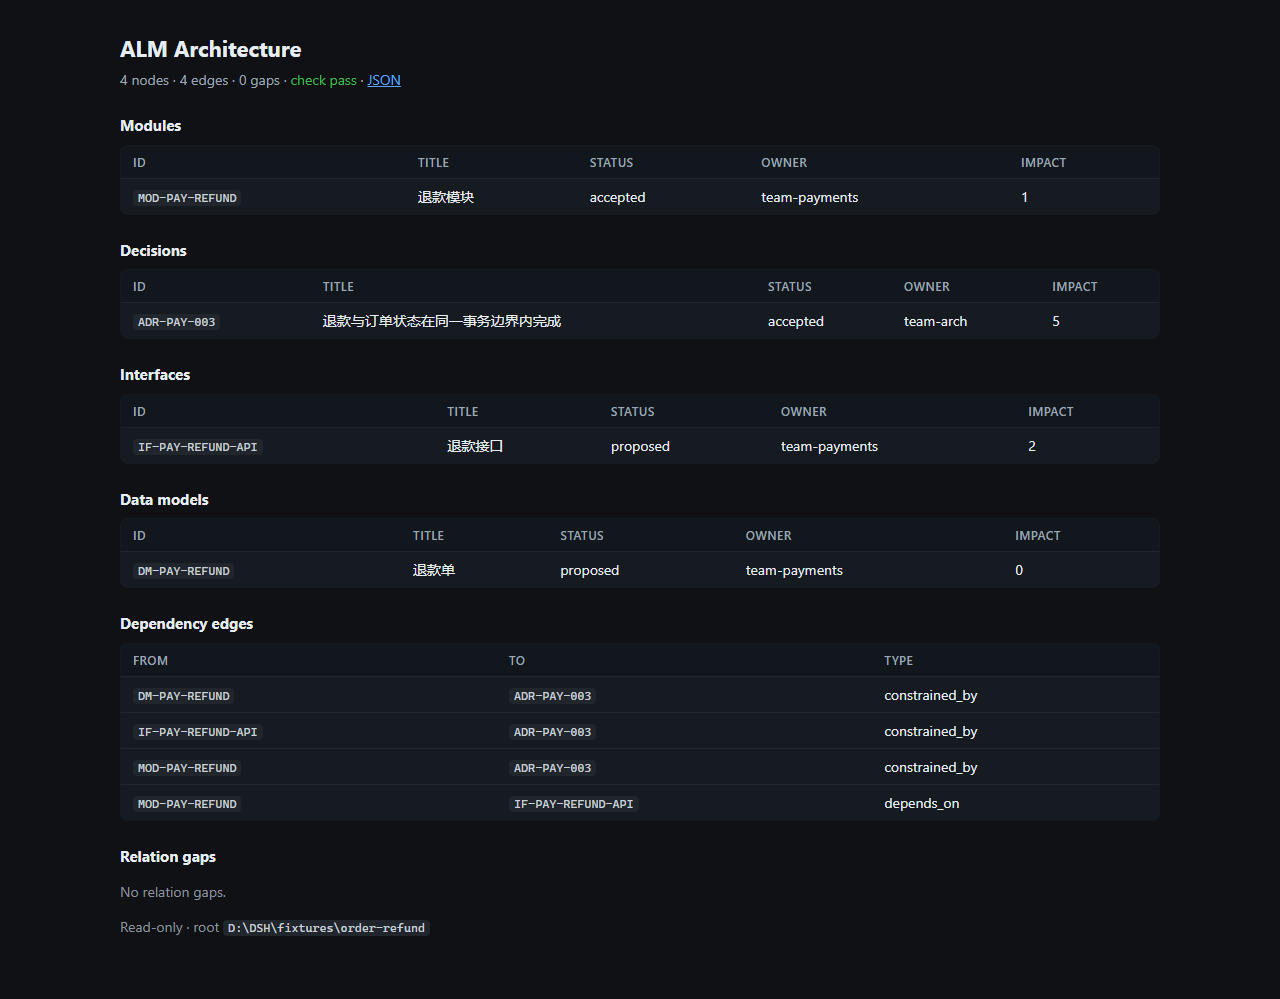
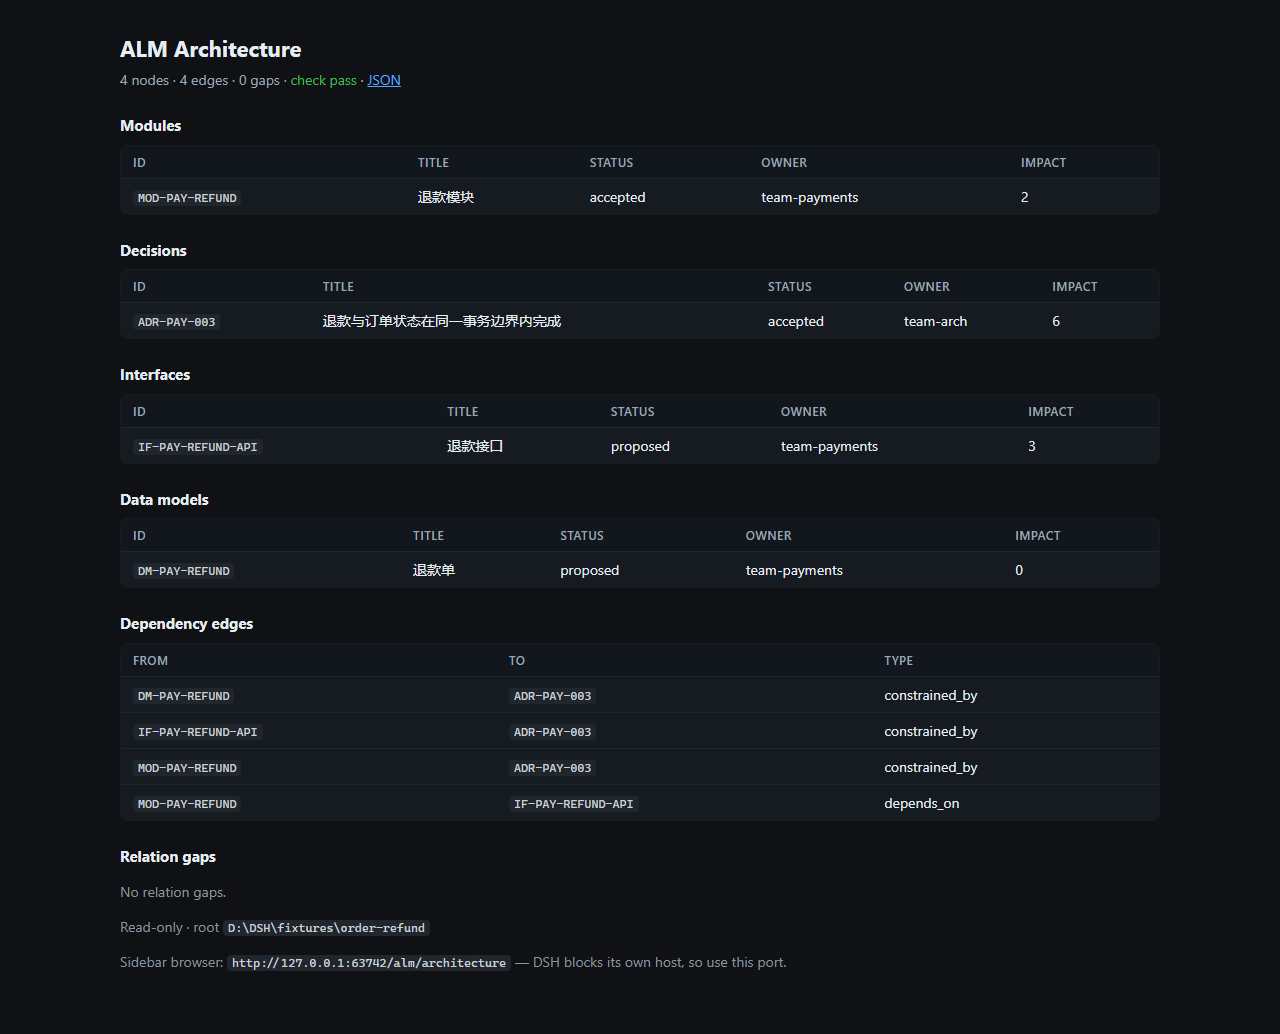
feat(fixtures): 新增 REQ-PAY-004 退款幂等样例

diff --git a/docs/planning/issue-register.md b/docs/planning/issue-register.md
@@ -21,7 +21,7 @@
 | 批次 3（P1） | ALM-02.04、ALM-03.02–03.04、ALM-05.02 | 差异/影响、双插件、联合变更 | 验收 1–3；两插件同一 ChangeSet |
 | 批次 4（P1） | ALM-04.01–04.06、ALM-05.04–05.05 | SCM/CI、审批失效、基线、故障恢复、按需 UI CI、Gitea、技能校验与发布技能 | 验收 4–7 |
 | 批次 5（P2） | ALM-06.01–06.02 | 试点演练与文档 | 验收 8 + 验证报告 |
-| 批次 6（P1） | ALM-07.01–07.04 | 需求工作台、任务草案、看板接入、技能与 CI 演练 | 空态/详情/下一步可用；`TASK-001` 生效；drill 在 CI 绿 |
+| 批次 6（P1） | ALM-07.01–07.05 | 需求工作台、任务草案、看板接入、技能与 CI 演练、样例幂等需求 | 空态/详情/下一步可用；`TASK-001` 生效；drill 在 CI 绿 |
 
 ## 台账
 
@@ -67,6 +67,7 @@
 | ALM-07.02 | 需求→任务草案与 TASK-001 | task | @peterzhanghao | P1 | core | done | ALM-07.01（#73，已关闭） | 确认发布 | #74 | #77 | in-sync | 2026-10-30 16:12 |
 | ALM-07.03 | 任务看板接入（GitHub Issues / Gitea） | task | @peterzhanghao | P1 | release | done | ALM-07.02（#74，已关闭） | 确认发布 | #75 | #78 | in-sync | 2026-10-30 16:50 |
 | ALM-07.04 | 技能正文与 CI 演练：需求→任务→看板 | task | @peterzhanghao | P2 | skills | done | ALM-07.02（#74，已关闭）、ALM-07.03（#75，已关闭） | 确认发布 | #79 | #80 | in-sync | 2026-10-30 17:20 |
+| ALM-07.05 | 样例资产：REQ-PAY-004 退款幂等 | task | @peterzhanghao | P2 | core | review | ALM-02.02（#8，已关闭） | 确认发布 | #81 | — | in-sync | 2026-10-30 17:40 |
 
 > 批次 1 的 11 个工作项已创建并回读：`#1`–`#11`。父项、blocked-by、标签、状态与本文档一致。
 > ALM-01.01 已合并：PR `#12` → merge commit `2642153`。

diff --git a/fixtures/order-refund/README.md b/fixtures/order-refund/README.md
@@ -1,18 +1,21 @@
 # 部分退款样例
 
-“订单支持部分退款”的完整正例，覆盖 7 类资产与 4 种源格式：
+“订单支持部分退款”的完整正例，覆盖 7 类资产与 4 种源格式（共 10 个资产）：
 
 | 资产 | 文件 | 格式 |
 |---|---|---|
-| `REQ-PAY-001` 需求 | `requirements/refund.sdoc` | sdoc |
-| `TEST-PAY-001` 验收 | `tests/refund.sdoc` | sdoc |
+| `REQ-PAY-001` 部分退款需求 | `requirements/refund.sdoc` | sdoc |
+| `REQ-PAY-004` 退款幂等需求 | `requirements/refund-idempotent.sdoc` | sdoc |
+| `TEST-PAY-001` 金额与状态验收 | `tests/refund.sdoc` | sdoc |
+| `TEST-PAY-004` 同键重放验收 | `tests/refund-idempotent.sdoc` | sdoc |
+| `TEST-PAY-005` 并发同键验收 | `tests/refund-idempotent.sdoc` | sdoc |
 | `ADR-PAY-003` 决策 | `adr/ADR-PAY-003.md` | markdown |
 | `MOD-PAY-REFUND` 模块 | `architecture/MOD-PAY-REFUND.yml` | yaml |
 | `DM-PAY-REFUND` 数据模型 | `architecture/DM-PAY-REFUND.yml` | yaml |
 | `IF-PAY-REFUND-API` 接口 | `architecture/refund-api.yml` | openapi |
 | `RISK-PAY-001` 风险 | `risks/RISK-PAY-001.yml` | yaml |
 
-关系链：需求 → 模块（`allocated_to`）→ 接口（`depends_on`）；需求/接口/模块/数据模型/风险均受 ADR 约束（`constrained_by`）；需求由验收用例覆盖（`verified_by`）。
+关系链：需求 → 模块（`allocated_to`）→ 接口（`depends_on`）；需求/接口/模块/数据模型/风险均受 ADR 约束（`constrained_by`）；需求由验收用例覆盖（`verified_by`，`REQ-PAY-004` 覆盖两条）。
 
 验证：
 

diff --git a/docs/planning/task-breakdown.md b/docs/planning/task-breakdown.md
@@ -462,3 +462,19 @@
   - 正例：`node scripts/task-drill.mjs` 输出 `draft=3 TASK-001=pass sync=dry-run negative=fail`，退出 0；CI 绿
   - 反例：清空一张卡的 `covers` → drill 的负例步骤必须看到 `fail TASK-001`；技能超 8 KB 或链接失效 → 校验失败
 - 证据：drill 输出、CI 运行记录、`validate-skills.ps1` 与 `check-alm-skill.mjs` 通过
+
+### ALM-07.05 样例资产：REQ-PAY-004 退款幂等
+
+- 类型：Task ｜ Owner：@peterzhanghao ｜ 优先级：P2 ｜ 前置：ALM-02.02（#8，已关闭）
+- 技能：`alm-requirements`（SDoc 与验收写法）
+- 实施范围：`fixtures/order-refund/{requirements,tests,README.md}`、受影响的测试断言与截图
+- 不在范围：真实退款服务实现（样例只含资产）
+- 接口：新增 `REQ-PAY-004`（sdoc）与 `TEST-PAY-004/005`；关系 `allocated_to/constrained_by/verified_by`
+- 交付物：
+  - [ ] 幂等需求与两条验收用例进样例仓库
+  - [ ] 受影响断言更新（资产数 10、需求 2 条、ADR 影响 6）
+  - [ ] README 与验证截图同步
+- 验收：
+  - 正例：`alm check --root fixtures/order-refund` 退出 0；`alm index` 仍为 7 类资产、10 个；工作台显示 2 条需求且 `REQ-PAY-004` 的 next 为“发起变更”
+  - 反例：删除 `REQ-PAY-004` 的 `verified_by` → `COV-001` 失败并定位到 `requirements/refund-idempotent.sdoc:7`
+- 证据：`node --test "packages/*/test/**/*.test.mjs"`、`ui-verify` 截图

diff --git a/docs/planning/verification-report.md b/docs/planning/verification-report.md
@@ -69,7 +69,7 @@ MVP 的“改资产 → 门禁 → 差异/影响 → 基线 → 发布/回滚”
 
 每次演练结束后跑一次 UI 验证（需求页、架构页、`/api/alm/*`），断言：HTTP 200、标题、表头、资产行、缺口区、`·` 分隔符、无乱码、无 console error、无 4xx/5xx 资源。
 
-![需求页：1 条需求、0 缺口、check pass](../assets/verification/requirements.png)
+![需求页：2 条需求、0 缺口、check pass](../assets/verification/requirements.png)
 
 ![架构页：4 节点、4 条依赖边、影响计数、check pass](../assets/verification/architecture.png)
 
